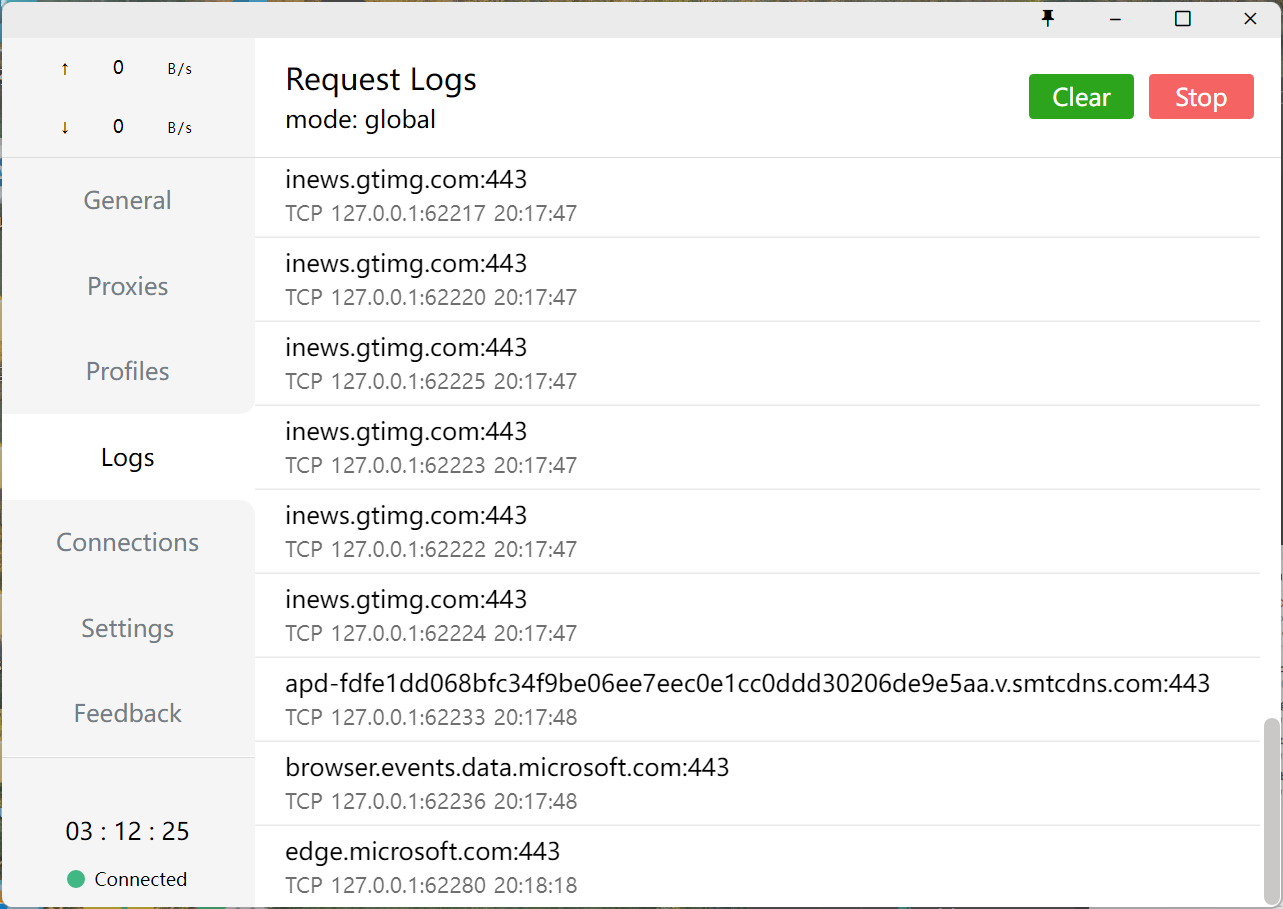
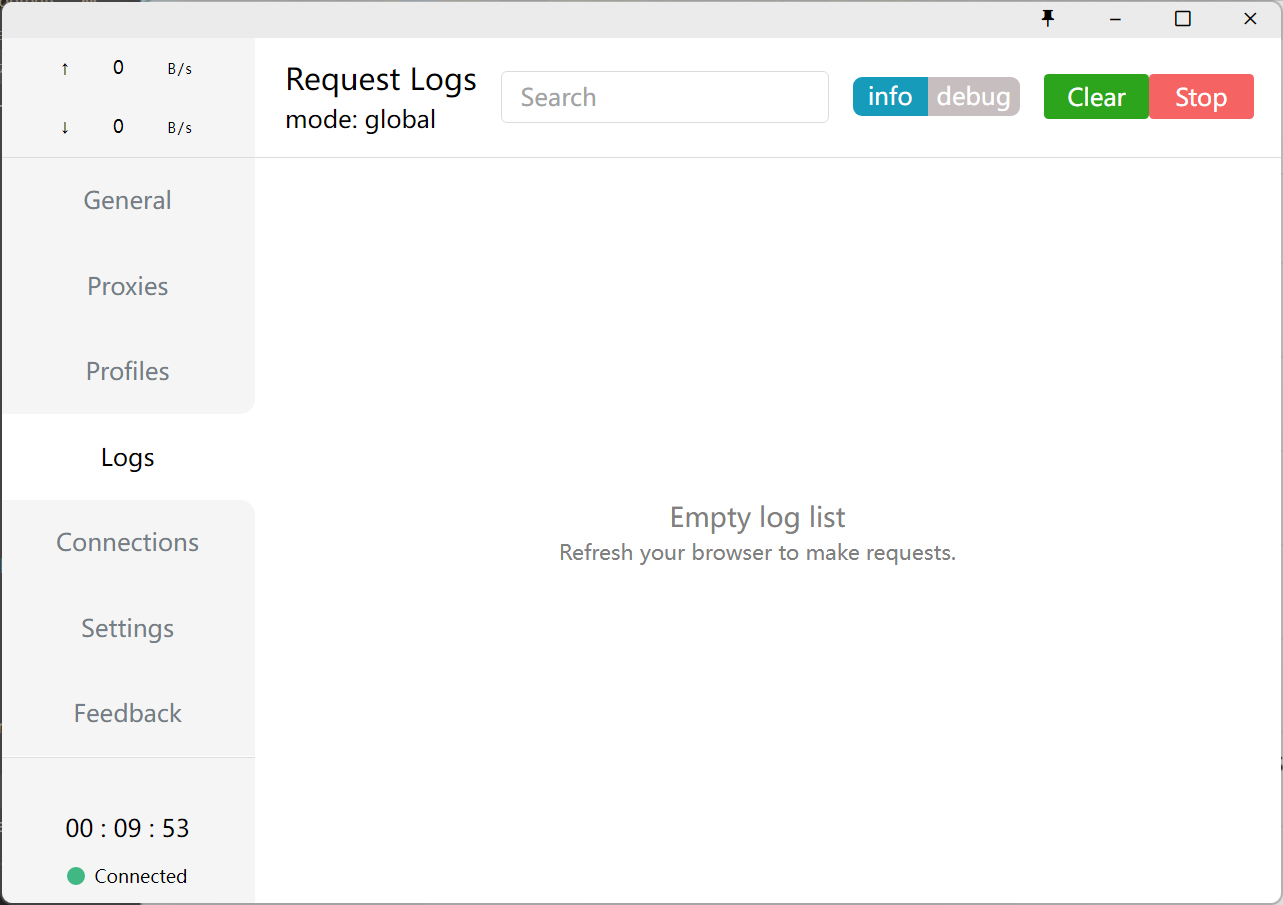
Chore: update notes

diff --git a/docs/contents/ui/general.md b/docs/contents/ui/general.md
@@ -7,41 +7,41 @@
 ## 选项说明
 
 - Port：Mixed(Http+Socks) 代理端口
-- ~~Socks Port：Socks5 代理端口~~
 - Allow LAN：是否允许局域网代理
+  - 网络图标：显示网卡信息
 - Log Level：Clash 核心日志等级
-- IPV6: 是否启用IPV6
+- IPV6: 是否启用 IPV6
 - Home Directory：Clash 配置文件目录（不建议修改此目录下文件内容）
 - GeoIP Database：GeoIP 数据库更新
 - UWP Loopback：UWP 应用联网限制解除工具
-- TUN Mode: 是否启用TUN模式
-- Service Mode: 虚拟网卡安装(TUN模式)
-- TAP Device：虚拟网卡安装(TAP模式)
-- ~~General YAML：文本模式编辑基础配置~~
-- ~~Theme：切换`亮`/`暗`主题~~
-- Mixin: 是否启用Minxin模式
+- Service Mode: 虚拟网卡安装(TUN 模式)
+  - 地球图标：显示 Service Mode 在线状态
+- TUN Mode: 是否启用 TUN 模式
+  - 设置图标：打开 TUN 模式设置面板
+- TAP Device：虚拟网卡安装(TAP 模式)
+- Mixin: 是否启用 Mixin 模式
+  - 设置图标：启动编辑器修改 Mixin 配置
 - System Proxy：系统代理开关
-- Start with Windows：开机自启动开关
+- Start with Windows/macOS/Linux：开机自启动开关
 
 ## 点击行为
 
-- Random Mixed Port(循环按钮): 随机设置Mixed端口
-- 端口: 设置Mixed端口号
-- info(Log Level): 设置日志类型
-- Clash Core
-  - 盾牌: 添加Allow LAN与System Stack的防火墙规则
-  - 内核版本号: 打开Clash内核控制页面
-- Connected to Clash core：快速打开 logs 文件夹
 - Clash for Windows（标题）：快速重启软件
 - v x.x.x: 当显示`new`提示时可以直接点击下载新版安装包 (每隔 6 小时检查一次更新)
-- Home Directory：快速打开配置文件目录
-- GeoIP Database：点击更新 GeoIP 库
+- Connected/Disconnected：文件夹中显示当前日志文件
+
+## 右侧对应点击行为
+
+- Port:
+  - 终端图标: 使用命令行设置系统代理
+  - 循环图标: 随机设置 Mixed 端口
+  - 端口号：修改 Mixed Port
+- Log Level: 设置日志类型
+- IPv6：设置是否启用 IPv6 连接逻辑
+- Clash Core
+  - 盾牌图标: 添加 Allow LAN 与 System Stack 的防火墙规则
+  - 内核版本号: 打开 Clash 内核控制 Web 页面
 - UWP Loopback：快速打开回环代理限制器
-- TAP Device(Manage)：打开TAP模式虚拟网卡控制面板
-- Service Mode(Manage): 打开TUN模式虚拟网卡控制面板
-- 小齿轮图标: 打开TUN Mode/Mixin的配置文件
-- Allow LAN: 显示当前所有网卡IPV4 & IPV6地址
-
-## 悬停行为
-
-- ~~Allow LAN：显示当前所有网卡 IPv4 地址~~
+- Home Directory：快速打开配置文件目录
+- GeoIP Database：点击更新 GeoIP 库 （macOS 可用）
+- TAP Device：打开 TAP 模式虚拟网卡控制面板（Windows 可用）

diff --git a/docs/README.md b/docs/README.md
@@ -9,7 +9,7 @@
 - Clash：一个 Go 语言开发的多平台代理客户端，[Github](https://github.com/Dreamacro/clash)
 - ClashX：Clash 的 Mac 图形客户端，[Github](https://github.com/yichengchen/clashX)
 - ClashForAndroid：Clash 的 Android 图形客户端，[Github](https://github.com/Kr328/ClashForAndroid)
-- **Clash for Windows：本项目，Clash 的 Windows/macOS 图形客户端，[Github](https://github.com/Fndroid/clash_for_windows_pkg)**
+- **Clash for Windows：本项目，Clash 的 Windows/macOS/Linux 图形客户端，[Github](https://github.com/Fndroid/clash_for_windows_pkg)**
 
 ::: tip
 如无特殊说明，缩写**CFW**指代 Clash for Windows

diff --git a/docs/contents/ui/settings.md b/docs/contents/ui/settings.md
@@ -6,15 +6,15 @@
 
 ### Reset All Settings
 
-重置CFW的全部设置，恢复到默认值
+重置 CFW 的全部设置，恢复到默认值
 
 ### Force Quit
 
-强制退出CFW
+强制退出 CFW
 
 ### Quit
 
-正常退出CFW
+正常退出 CFW
 
 ## Securety
 
@@ -232,7 +232,7 @@
 
 ### Interface Name
 
-设置出口网络网卡(TAP模式)（如非必要请勿设置）
+设置出口网络网卡（如非必要请勿设置，后续版本将去处此功能）
 
 ## Child Processes
 
@@ -324,7 +324,7 @@
 
 ### Fake IP Cache
 
-`Clear`清除Fake IP缓存
+`Clear`清除 Fake IP 缓存
 
 ## Experimental Features（macOS）
 

diff --git a/docs/contents/questions.md b/docs/contents/questions.md
@@ -152,3 +152,11 @@ sudo xattr -r -d com.apple.quarantine /Applications/Clash\ for\ Windows.app
 3. 重启 CFW
 
 </question-answer>
+
+### 为什么更新到最新版本后 Service Mode 后面的地球变红了？
+
+<question-answer>
+
+在更新到 `v0.20.0` 后， `Service Mode` 的安全性有所提高，因此在从 `v0.19.29` 及以下版本更新到此版本时, `Service Mode` 后面的地球图标可能会显示为红色，请在 Manage 中选择 `Update` 或重新安装 TUN 网卡来消除此问题
+
+</question-answer>

diff --git a/docs/contents/ui/logs.md b/docs/contents/ui/logs.md
@@ -2,8 +2,11 @@
 
 ![](~@imgs/ui-logs1.png)
 
-此界面能直观地观察当前命中的规则以及所使用的策略类型及路由
+此界面能直观地观察当前命中的规则以及所使用的策略类型及路由，以及设置记录日志的类型
 
+- mode: 代理模式
+- Search：过滤日志
+- Info/Debug: 日志等级（仅面板，不影响日志文件生成）
 - Clear: 清除全部日志
 - Stop: 停止记录日志
 

diff --git a/docs/contents/bypass.md b/docs/contents/bypass.md
@@ -1,6 +1,6 @@
 # 绕过系统代理
 
-Clash for Windows 在 v 0.4.5 版本后可以自定义系统代理需要绕过的域名或 IP
+Clash for Windows 在 v0.4.5 版本后可以自定义系统代理需要绕过的域名或 IP
 
 ## 设置方式
 
